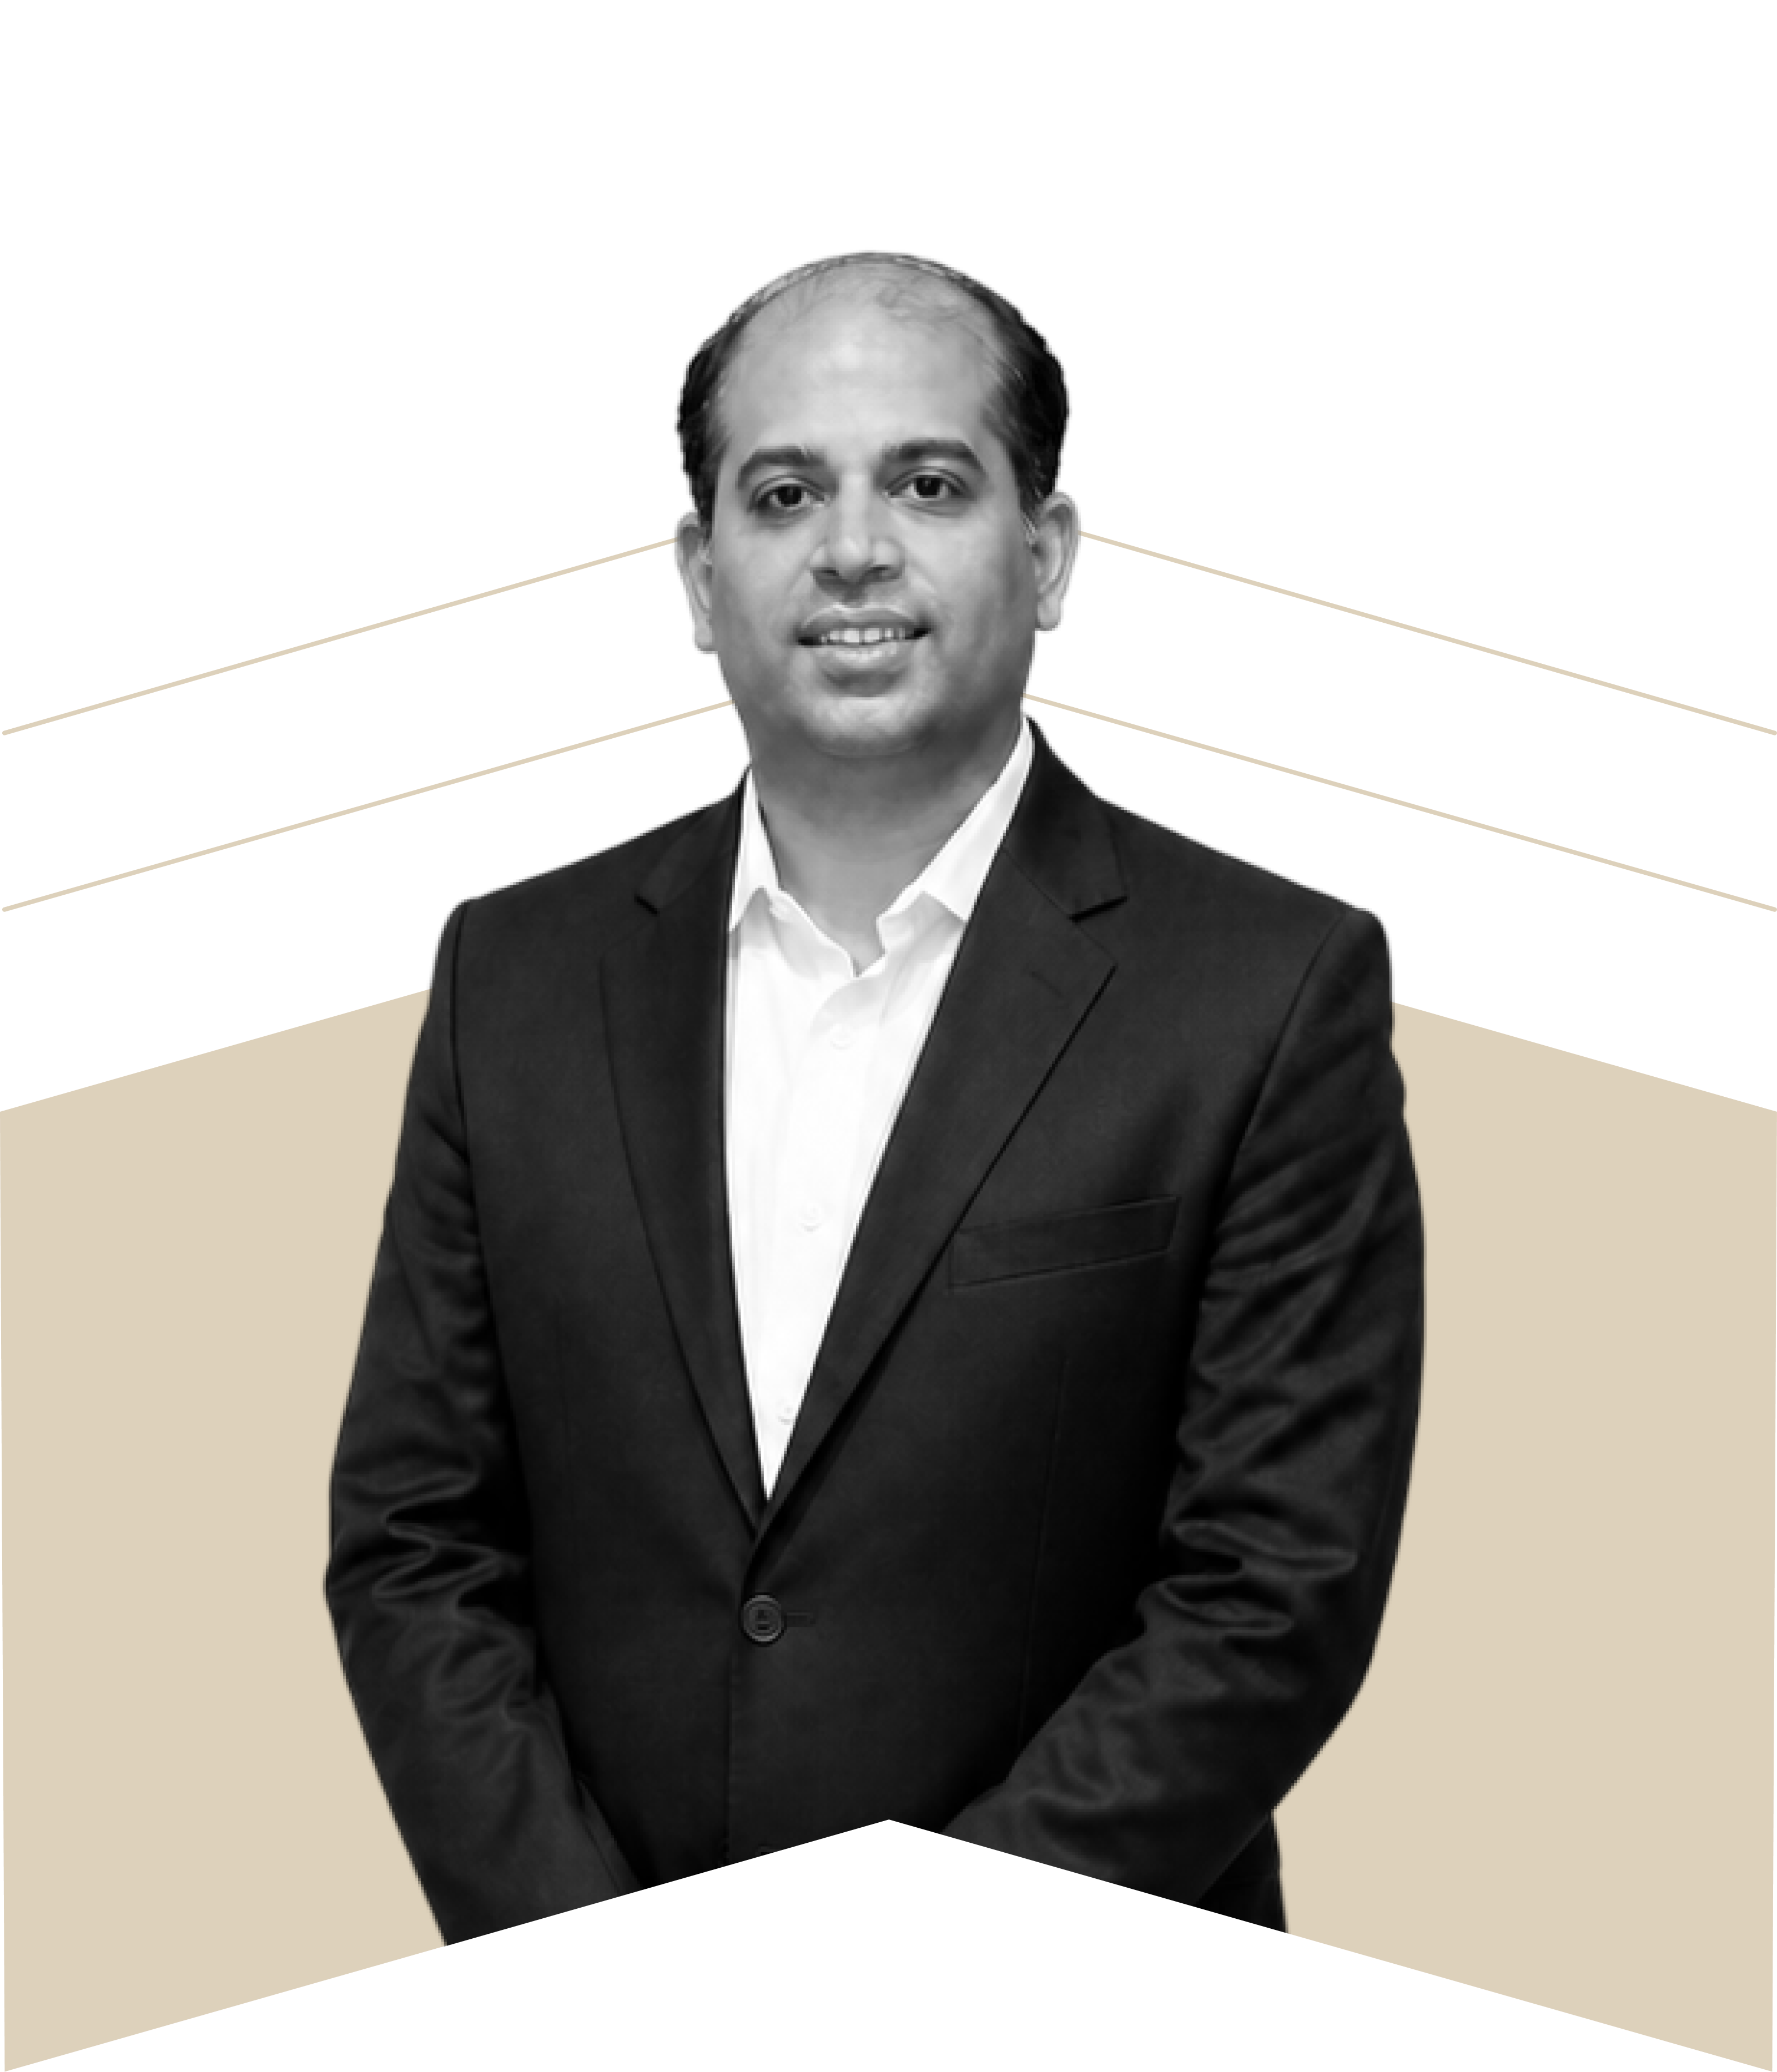
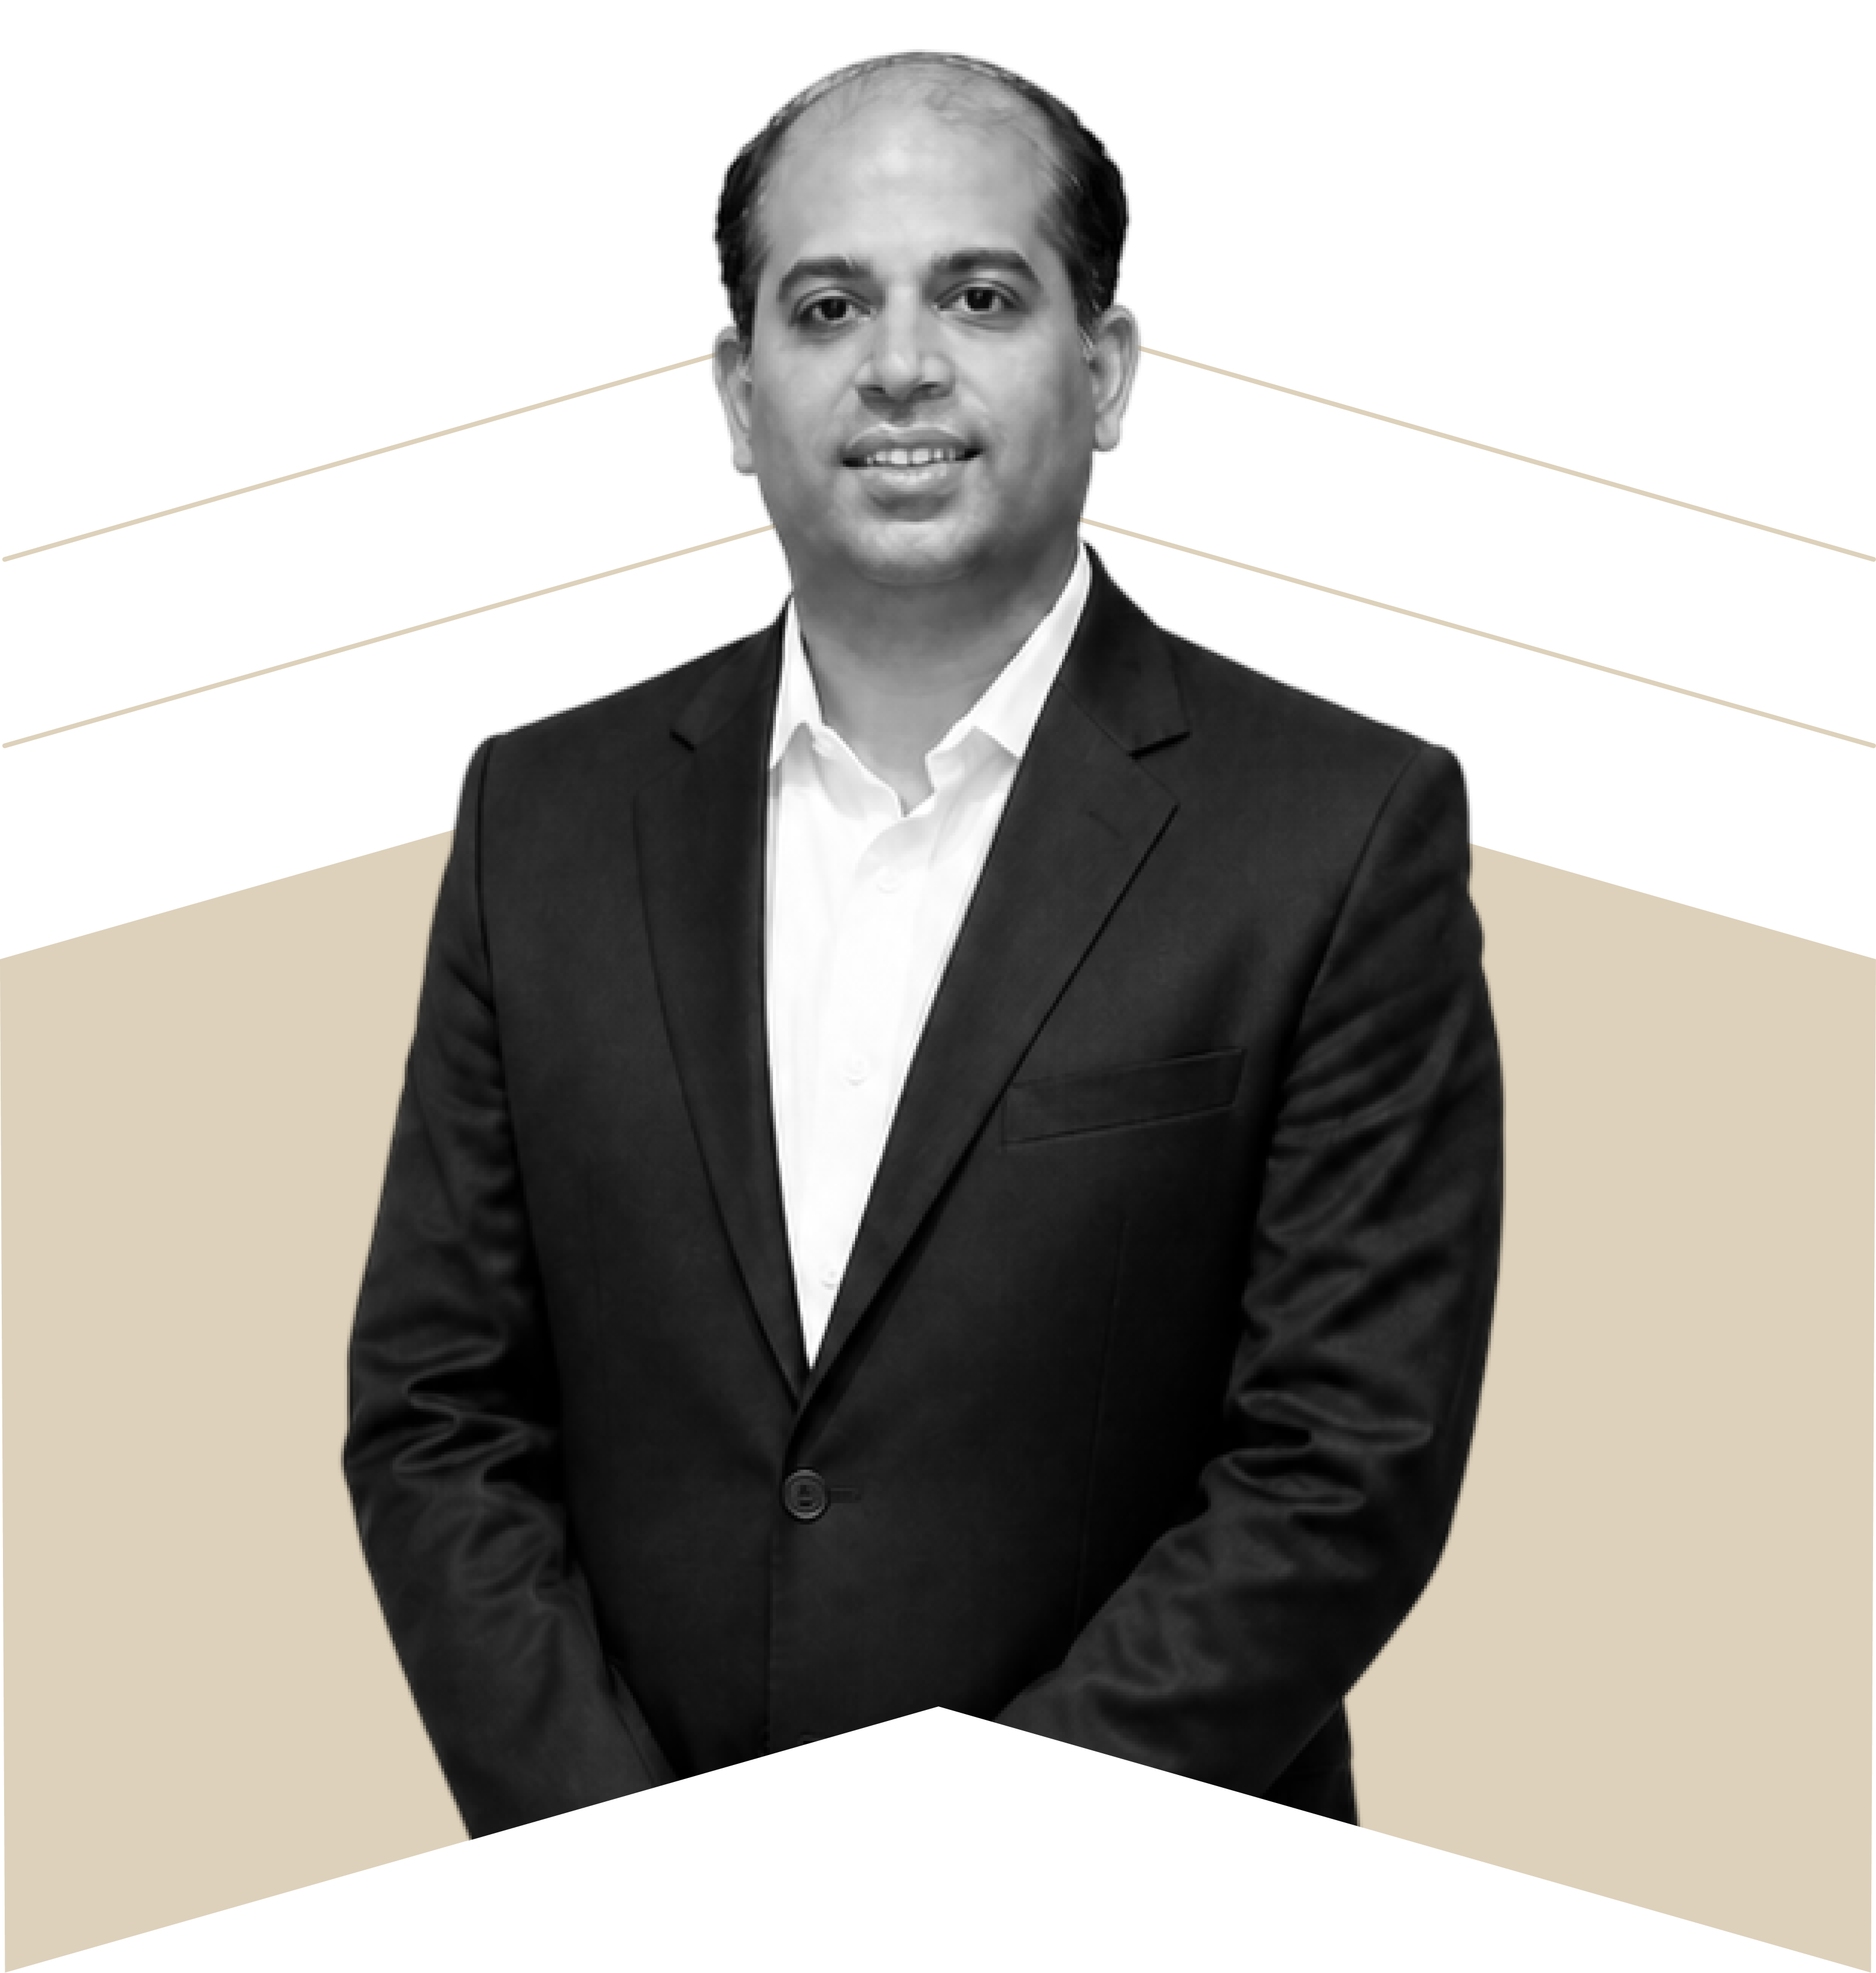
feat(homepage): refresh hero, professional profiles, CTA, and about section layout

diff --git a/src/components/about/AboutStats.tsx b/src/components/about/AboutStats.tsx
@@ -1,17 +1,12 @@
-export default function AboutStats() {
-  const stats = [
-    { value: '10+', label: 'Industries Supported' },
-    { value: '100+', label: 'Compliance Matters Assisted' },
-    { value: '50+', label: 'Business Compliance Reviews' },
-    { value: '25+', label: 'Regulatory Advisory Engagements' },
-  ];
+import Image from 'next/image';
 
+export default function AboutStats() {
   return (
-    <section className="px-6 md:px-12 py-12 md:py-24 w-full bg-[#FBE9C8] border-y border-[#131C2B]/10">
+    <section className="py-12 md:py-24 w-full bg-[#FBE9C8] border-y border-[#131C2B]/10 overflow-hidden">
       <div className="flex flex-col lg:flex-row items-start justify-between gap-12 lg:gap-24 w-full">
-        
+
         {/* Left Side: Who We Are */}
-        <div className="flex-1 lg:max-w-[50%]">
+        <div className="flex-1 lg:max-w-[50%] px-6 md:px-12">
           <h2 className="heading-section mb-6">Who We Are</h2>
           <p className="font-sans text-[15px] md:text-[16px] text-[#131C2B]/80 leading-relaxed text-justify mb-2">
             Aventis Compliance Solutions is a specialised advisory firm focused on labour law compliance, HR governance, and regulatory advisory for businesses across India. We help organizations manage workforce regulations, payroll compliances, statutory obligations, and workplace governance through practical and implementation-focused solutions.
@@ -24,21 +19,22 @@ export default function AboutStats() {
           </p>
         </div>
 
-        {/* Right Side: Stats Grid */}
-        <div className="flex-1 lg:max-w-[45%] w-full grid grid-cols-2 gap-x-8 gap-y-12">
-          {stats.map((stat, idx) => (
-            <div key={idx} className="flex flex-col items-start border-b border-[#131C2B]/20 pb-4">
-              <span className="font-serif text-[40px] md:text-[56px] text-[#131C2B] leading-none mb-2">
-                {stat.value}
-              </span>
-              <span className="font-sans text-[13px] md:text-[14px] text-[#131C2B]/80 uppercase tracking-widest font-medium">
-                {stat.label}
-              </span>
-            </div>
-          ))}
+        {/* Right Side: Image */}
+        <div className="flex-1 lg:max-w-[45%] w-full self-stretch">
+          <div className="relative w-full h-full min-h-[300px]">
+            <Image
+              src="/about-who-we-are.png"
+              alt="Who We Are"
+              fill
+              className="object-cover object-center"
+              sizes="(max-width: 1024px) 100vw, 45vw"
+            />
+          </div>
         </div>
 
       </div>
     </section>
   );
 }
+
+

diff --git a/src/app/globals.css b/src/app/globals.css
@@ -1,6 +1,11 @@
 @keyframes slideIn {
-  from { transform: translateX(100%); }
-  to { transform: translateX(0); }
+  from {
+    transform: translateX(100%);
+  }
+
+  to {
+    transform: translateX(0);
+  }
 }
 
 @import "tailwindcss";
@@ -44,7 +49,7 @@ html {
     color: var(--foreground);
   }
 
-  button, 
+  button,
   a,
   .cursor-pointer {
     cursor: pointer !important;
@@ -65,20 +70,23 @@ html {
   /* Hero h1 — homepage only */
   .heading-hero {
     @apply font-serif font-normal leading-[1.12] tracking-tight text-[#131C2B];
-    font-size: 28px; /* Phone */
+    font-size: 28px;
+    /* Phone */
     max-width: 100%;
     word-break: keep-all;
   }
 
   @media (min-width: 768px) {
     .heading-hero {
-      font-size: 48px; /* iPad Air */
+      font-size: 48px;
+      /* iPad Air */
     }
   }
 
   @media (min-width: 1024px) {
     .heading-hero {
-      font-size: 64px; /* iPad Pro & Desktop */
+      font-size: 64px;
+      /* iPad Pro & Desktop */
     }
   }
 

diff --git a/src/components/OurProfessionals.tsx b/src/components/OurProfessionals.tsx
@@ -5,7 +5,9 @@ const professionals = [
     name: 'Isha Wadhwa',
     title: 'Founder and Principal Consultant',
     description:
-      'A legal professional with a focus on labour and employment laws, payroll and statutory compliances, HR audits, POSH advisory, workplace governance, taxation, and allied regulatory matters, holding a B.COM and LL.B degree, enrolled with the Bar Council in 2022, and practicing before the Labour Court and Industrial Tribunal through a practical, structured, and business-oriented compliance approach focused on transparency, operational efficiency, and effective risk mitigation.',
+      'A legal professional advises on labour and employment law matters, payroll and statutory compliances, HR audits, POSH compliances, workplace governance, taxation, and allied regulatory matters through business-oriented approach with focused on operational efficiency and effective risk mitigation.',
+    homeDescription:
+      '"Strong businesses are built on strong compliance. When ethics and law go hand in hand, growth follows naturally."',
     image: '/Isha-Wadhwa.png',
     layout: 'image-left',
   },
@@ -13,13 +15,19 @@ const professionals = [
     name: 'Manan Oberoi',
     title: 'Principal Consultant',
     description:
-      'A legal and compliance professional with over a decade of experience in labour and employment laws, payroll compliances, HR audits, labour law registrations, POSH advisory, workplace governance, labour inspections, employment documentation, and regulatory compliance, holding an LL.B degree, enrolled with the Bar Council in 2010, and practicing before the Labour Court and Industrial Tribunal through a practical, solution-oriented, and business-focused approach with a strong emphasis on compliance management and risk mitigation.',
+      'A legal and compliance professional with over a decade of experience in labour and employment laws matters. He is specialized in advising client in Labour inspection, employment documentation, HR Audit, POSH Compliance & training and awareness sessions and represent the clients before labour court and industrial tribunals.',
+    homeDescription:
+      '"Compliance is not just about avoiding penalties, it\'s about building a workplace with trust, transparency, and responsibility."',
     image: '/Manan-Oberoi.png',
     layout: 'image-right',
   },
 ];
 
-export default function OurProfessionals() {
+interface OurProfessionalsProps {
+  variant?: 'home' | 'about';
+}
+
+export default function OurProfessionals({ variant = 'about' }: OurProfessionalsProps) {
   return (
     <section id="professionals" className="bg-[#FAF1E1] w-full overflow-hidden">
       <div className="max-w-[1300px] mx-auto px-4 md:px-8">
@@ -65,7 +73,7 @@ export default function OurProfessionals() {
                   {pro.title}
                 </p>
                 <p className="font-sans text-[15px] md:text-[16px] text-[#121C2A] leading-relaxed text-justify">
-                  {pro.description}
+                  {variant === 'home' ? pro.homeDescription : pro.description}
                 </p>
               </div>
             </div>

diff --git a/src/app/page.tsx b/src/app/page.tsx
@@ -20,7 +20,7 @@ export default async function Home() {
       <WhyChooseUs />
       <IndustriesWeServe />
       <HowWeWork />
-      <OurProfessionals />
+      <OurProfessionals variant="home" />
       <FAQ />
       <CallToAction />
       <Footer />

diff --git a/src/components/CallToAction.tsx b/src/components/CallToAction.tsx
@@ -25,7 +25,7 @@ export default function CallToAction() {
         <span className="font-sans text-[14px] md:text-[15px] text-white/90 mb-2 md:mb-6 tracking-wide">Let&apos;s start</span>
 
         <h1 className="heading-section text-white mb-2 md:mb-6 !text-[40px] md:!text-[76px] lg:!text-[96px]">
-          Start free<br />consultation
+          Start<br />consultation
         </h1>
 
         <Link 

diff --git a/src/components/Hero.tsx b/src/components/Hero.tsx
@@ -44,7 +44,7 @@ function TypewriterQuote() {
     <section ref={sectionRef} className="w-full px-6 md:px-12 py-12 md:py-24 bg-[#FAF1E1]">
       <div className="max-w-[1000px] mx-auto text-center">
         <p
-          className="font-sans font-normal leading-[1.6] text-center tracking-tight"
+          className="font-serif font-medium leading-[1.6] text-center tracking-tight"
           style={{ fontSize: 'clamp(1.3rem, 3.5vw, 3rem)' }}
         >
           {words.map((word, i) => (